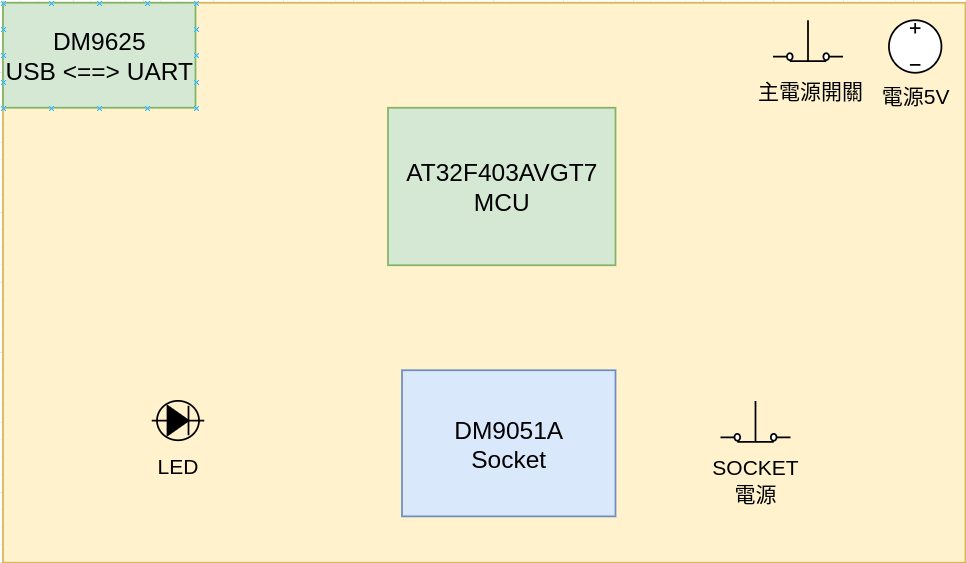
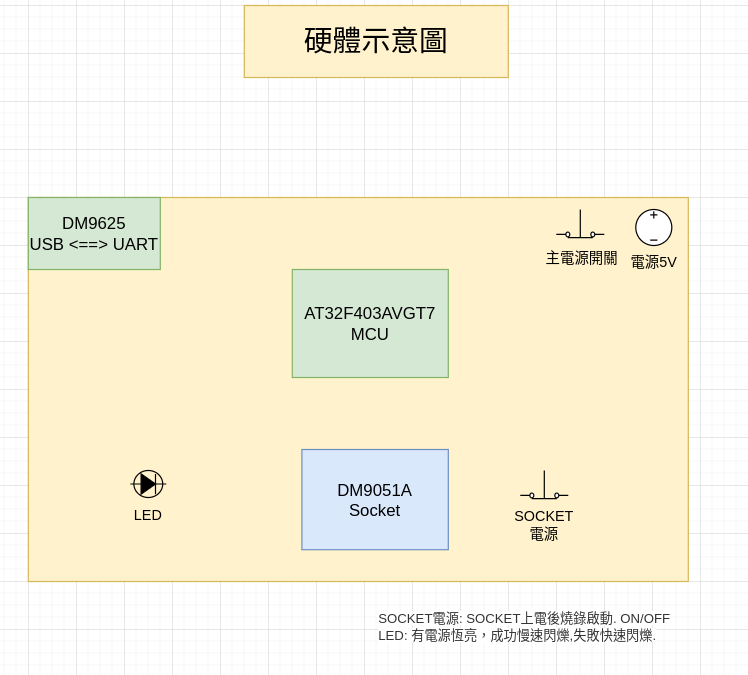
vault backup: 2023-12-15 15:26:29
Affected files:
DM9051A OTP 燒錄專案/DM9051A OTP 燒錄器規格.md
DM9051A OTP 燒錄專案/DM9051A-OTP-Programmer-Controller.png

diff --git a/DM9051A OTP 燒錄專案/DM9051A OTP 燒錄器規格.md b/DM9051A OTP 燒錄專案/DM9051A OTP 燒錄器規格.md
@@ -8,7 +8,7 @@
 Altery 型號  AT32F403AVGT7
 
 硬體示意圖：
-
+![[DM9051A-OTP-Programmer-Controller.png]]
 
 #### SOCKET 模組：
 由 MCU 控制，界面爲 SPI，負責將燒錄內容輸出到 8051A Embedded Memory(One Time Programmed Device => OTP)
